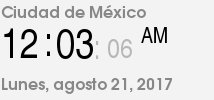
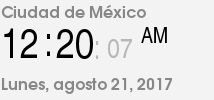
update images 21-08-2017 00:20

Changed region(s): [[0.2523, 0.3, 0.4486, 0.6], [0.5607, 0.39, 0.6168, 0.6]]

diff --git a/README.md b/README.md
@@ -13021,3 +13021,5 @@
 |20-08-2017 23:40
 |20-08-2017 23:50
 |21-08-2017 00:03
+|21-08-2017 00:11
+|21-08-2017 00:20
